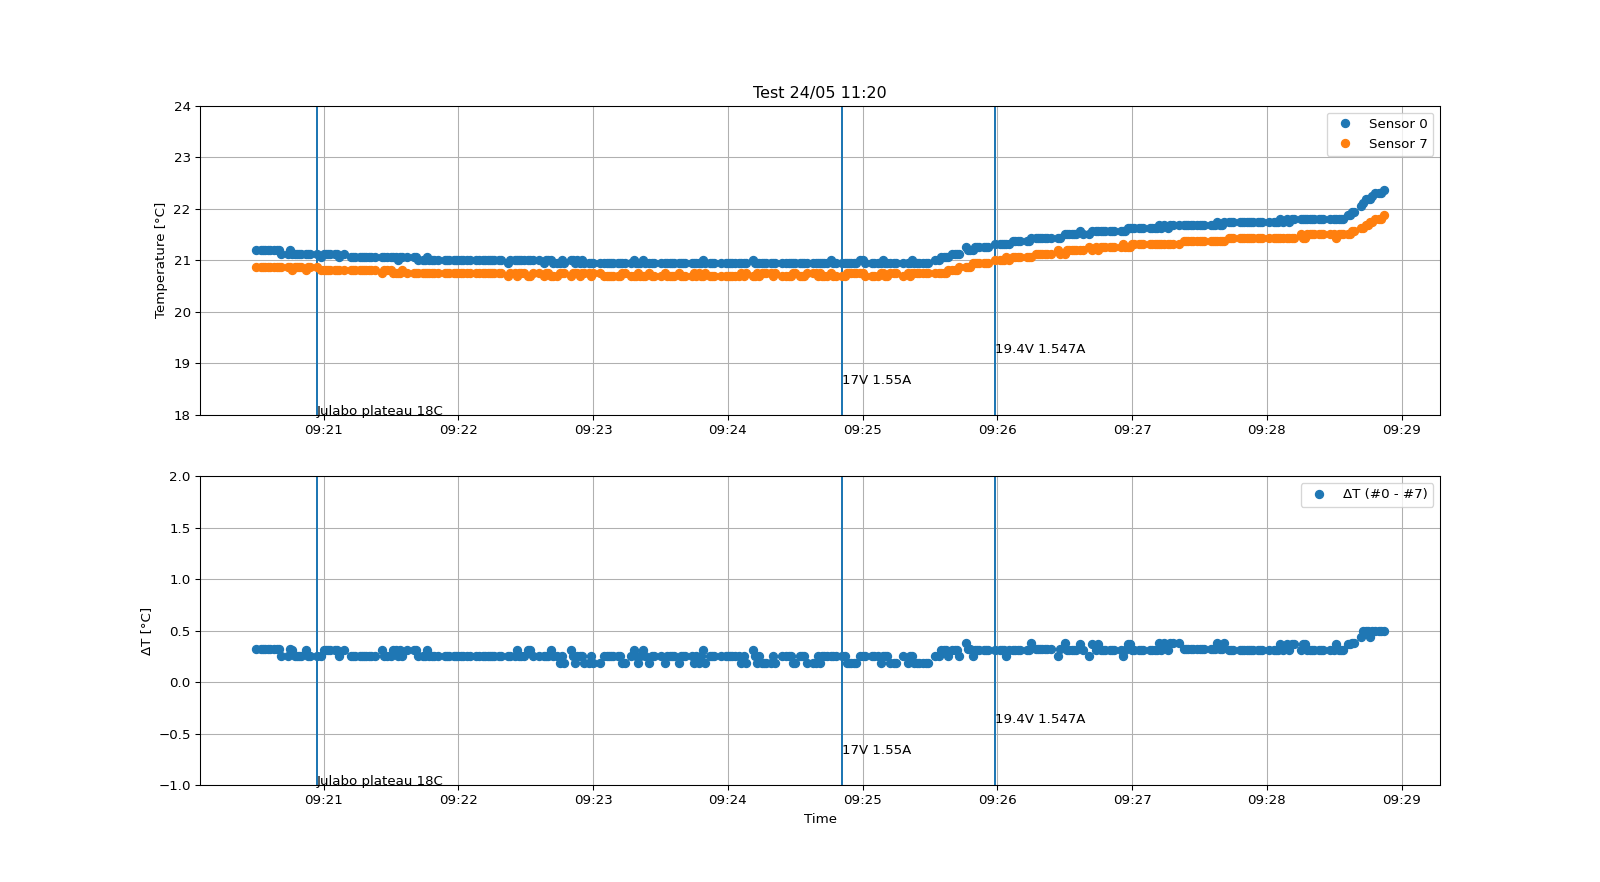
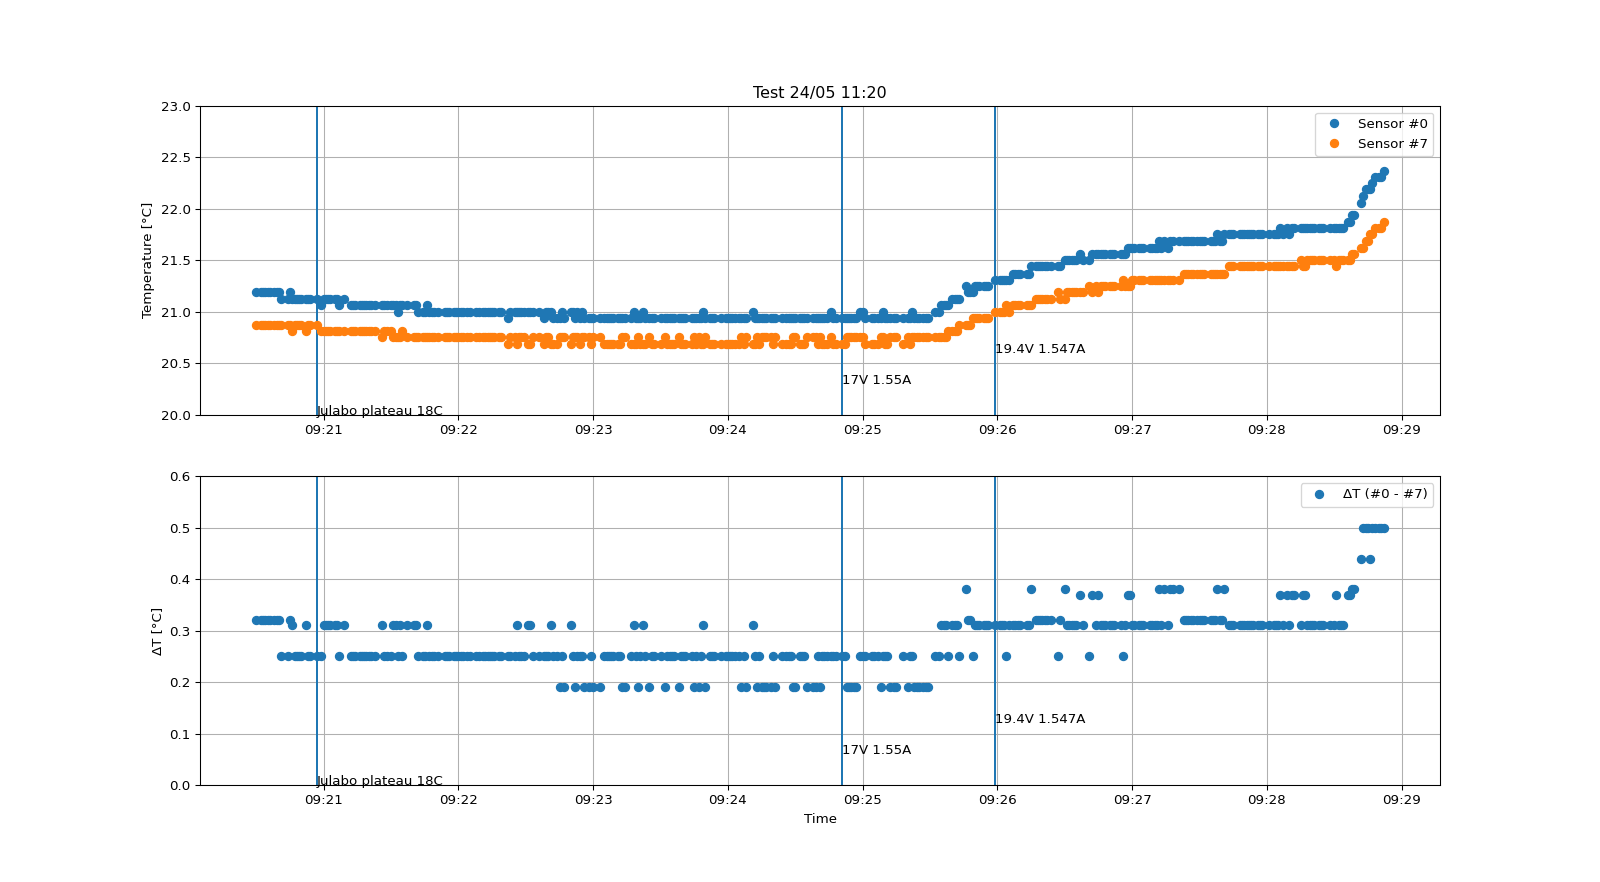
minor improvements in plots

diff --git a/Analysis/silvio_plots.py b/Analysis/silvio_plots.py
@@ -1,104 +1,126 @@
 from numpy import genfromtxt
 import matplotlib.pyplot as plt
 import os, datetime
+from math import floor, ceil
 import matplotlib.dates as mdates
 xformatter = mdates.DateFormatter('%H:%M')
 
-sensor_pairs = [(0,7)] #, (4,7), (2,5)
-#sensors_up = 1,2
-#sensors_down = 3,4
-sensors = [i[0] for i in sensor_pairs] + [i[1] for i in sensor_pairs]
+os.system("mkdir -p plots")
 
-inputFile = '../Data/tklog_1621851072.txt'
-inputFileNew = inputFile.replace(".txt","_data.txt")
-inputFileLog = inputFile.replace(".txt","_log.txt")
-os.system("cat %s | grep -v Log > %s" %(inputFile,inputFileNew))
-os.system("cat %s | grep Log > %s" %(inputFile,inputFileLog))
-my_data = genfromtxt(inputFileNew, delimiter=' ')
-mystates = {"Off":0, "Initialized":1, "Ready":2,"HeatingOn":3, "HeatingOff":4 ,"DumpResults":5}
-my_curated_data = my_data[:,[0,4,8,9,10,11,12,13,14,15]]
-
-delta_T_Above_minus_below = {}
-for sensor_pair in sensor_pairs:
-    delta_T_Above_minus_below[sensor_pair] = ( my_curated_data[:,sensor_pair[0]+2] - my_curated_data[:,sensor_pair[1]+2] )
-
-### File timestamp
-timestamp_moments= {    
-#    1621851072: "AAA",
+sensor_config = {
+    '../Data/tklog_1621846908.txt': ([(0,7)],""),
+    '../Data/tklog_1621847007.txt': ([(0,7)],""),
+    '../Data/tklog_1621848040.txt': ([(0,7)],""),
+    '../Data/tklog_1621848543.txt': ([(0,7)],""),
+    '../Data/tklog_1621848738.txt': ([(0,7)],""),
+    '../Data/tklog_1621849015.txt': ([(0,7)],""),
+    '../Data/tklog_1621849264.txt': ([(0,7)],""),
+    '../Data/tklog_1621850280.txt': ([(0,7)],""),
+    '../Data/tklog_1621850596.txt': ([(0,7)],""),
+    '../Data/tklog_1621851072.txt': ([(0,7)],""),
 }
 
-logFile = open(inputFileLog)
-for l in logFile.readlines():
-    timestamp_moments[datetime.datetime.utcfromtimestamp(int(l.split(" Log ")[0]))] = l.split(" Log ")[1].replace("\n","")
+for inputFile in sensor_config:
+    sensor_pairs = sensor_config[inputFile][0]
+    title = sensor_config[inputFile][1]
+    #sensors_up = 1,2
+    #sensors_down = 3,4
+    sensors = [i[0] for i in sensor_pairs] + [i[1] for i in sensor_pairs]
+    
+    inputFileNew = inputFile.replace("tklog_","data_")
+    inputFileLog = inputFile.replace("tklog_","log_")
+    os.system("cat %s | grep -v Log > %s" %(inputFile,inputFileNew))
+    os.system("cat %s | grep Log > %s" %(inputFile,inputFileLog))
+    my_data = genfromtxt(inputFileNew, delimiter=' ')
+    mystates = {"Off":0, "Initialized":1, "Ready":2,"HeatingOn":3, "HeatingOff":4 ,"DumpResults":5}
+    my_curated_data = my_data[:,[0,4,8,9,10,11,12,13,14,15]]
 
-print(timestamp_moments)
+    delta_T_Above_minus_below = {}
+    for sensor_pair in sensor_pairs:
+        delta_T_Above_minus_below[sensor_pair] = ( my_curated_data[:,sensor_pair[0]+2] - my_curated_data[:,sensor_pair[1]+2] )
 
-####
+    ### File timestamp
+    timestamp_moments= {    
+    #    1621851072: "AAA",
+    }
 
-#sensors
-# 0,1,2,3,4,5,6,7
-# 2,3,4,5,6,7,8,9
+    logFile = open(inputFileLog)
+    for l in logFile.readlines():
+        timestamp_moments[datetime.datetime.utcfromtimestamp(int(l.split(" Log ")[0]))] = l.split(" Log ")[1].replace("\n","")
 
-my_dpi=96
-#typically ABOVE are sensors 0,2; below sensors 3,5
-fig, ax = plt.subplots(2, figsize=(1600/my_dpi, 882/my_dpi), dpi=my_dpi)
+    print(timestamp_moments)
 
-#sensors
-time = [datetime.datetime.utcfromtimestamp(float(t)) for t in my_curated_data[:,0]]
-#time = my_curated_data[:,0]
-for sensor in sensors:
-    ax[0].plot_date(time,my_curated_data[:,sensor+2], label = 'Sensor %d'%sensor)
-#ax[0].set_ylim([-10,100])
-min_ = min([min(my_curated_data[:,i+2]) for i in sensors])
-max_ = max([max(my_curated_data[:,i+2]) for i in sensors])
-binSize = 2
-min_ = binSize*round(min_/binSize-1)
-max_ = binSize*round(max_/binSize+1)
-ax[0].set_ylim([min_, max_])
+    ####
 
-trans = ax[0].get_xaxis_transform()
-delta = min_
+    #sensors
+    # 0,1,2,3,4,5,6,7
+    # 2,3,4,5,6,7,8,9
 
-for i in timestamp_moments:
-    ax[0].vlines(i,-10,100)
-    ax[0].text(i,delta,timestamp_moments[i])
-    delta = delta+(max_-min_)/10
-    if (delta>max_):
-        delta=min_
+    my_dpi=96
+    #typically ABOVE are sensors 0,2; below sensors 3,5
+    fig, ax = plt.subplots(2, figsize=(1600/my_dpi, 882/my_dpi), dpi=my_dpi)
 
-ax[0].legend()
-ax[0].grid(True)
+    #sensors
+    time = [datetime.datetime.utcfromtimestamp(float(t)) for t in my_curated_data[:,0]]
+    #time = my_curated_data[:,0]
+    for sensor in sensors:
+        ax[0].plot_date(time,my_curated_data[:,sensor+2], label = 'Sensor #%d'%sensor)
+    #ax[0].set_ylim([-10,100])
+    min_ = min([min(my_curated_data[:,i+2]) for i in sensors])
+    max_ = max([max(my_curated_data[:,i+2]) for i in sensors])
+    binSize = 1
+    min_ = binSize*floor(min_ /binSize )
+    max_ = binSize*ceil(max_/binSize)
+    ax[0].set_ylim([min_, max_])
 
-for sensor_pair in sensor_pairs:
-    ax[1].plot_date(time,delta_T_Above_minus_below[sensor_pair], label = 'ΔT (#%d - #%d)'%(sensor_pair[0],sensor_pair[1]))
-ax[1].legend()
-ax[1].grid(True)
-#ax[1].set_ylim([-10,10])
-min_ = min([min(delta_T_Above_minus_below[sensor_pair]) for sensor_pair in sensor_pairs])
-max_ = max([max(delta_T_Above_minus_below[sensor_pair]) for sensor_pair in sensor_pairs])
-binSize = 1
-min_ = binSize*round(min_ /binSize -1)
-max_ = binSize*round(max_ /binSize +1)
-ax[1].set_ylim([min_ ,max_ ])
+    trans = ax[0].get_xaxis_transform()
+    delta = min_
 
-trans = ax[1].get_xaxis_transform()
-delta = min_
+    for i in timestamp_moments:
+        ax[0].vlines(i,-10,100)
+        ax[0].text(i,delta,timestamp_moments[i])
+        delta = delta+(max_-min_)/10
+        if (delta>max_):
+            delta=min_
 
-for i in timestamp_moments:
-    ax[1].vlines(i,-1000,1000)
-    ax[1].text(i,delta,timestamp_moments[i])
-    delta = delta+(max_-min_)/10
-    if (delta>max_):
-        delta=min_
+    ax[0].legend()
+    ax[0].grid(True)
 
-ax[0].set_title("Test %s"%datetime.datetime.fromtimestamp(my_data[0][0]).strftime('%d/%m %H:%M')) 
-ax[1].set_xlabel("Time") 
-ax[0].set_ylabel("Temperature [°C]") 
-ax[1].set_ylabel("ΔT [°C]") 
+    for sensor_pair in sensor_pairs:
+        ax[1].plot_date(time,delta_T_Above_minus_below[sensor_pair], label = 'ΔT (#%d - #%d)'%(sensor_pair[0],sensor_pair[1]))
+    ax[1].legend()
+    ax[1].grid(True)
+    #ax[1].set_ylim([-10,10])
+    min_ = min([min(delta_T_Above_minus_below[sensor_pair]) for sensor_pair in sensor_pairs])
+    max_ = max([max(delta_T_Above_minus_below[sensor_pair]) for sensor_pair in sensor_pairs])
+    binSize = 0.2
+    min_ = binSize*floor(min_ /binSize )
+    max_ = binSize*ceil(max_/binSize)
+    ax[1].set_ylim([min_ ,max_ ])
 
-plt.gcf().axes[0].xaxis.set_major_formatter(xformatter)
-plt.gcf().axes[1].xaxis.set_major_formatter(xformatter)
+    trans = ax[1].get_xaxis_transform()
+    delta = min_
 
-plt.savefig("%s.png"%datetime.datetime.fromtimestamp(my_data[0][0]).strftime('%y_%m_%d_%H_%M_%S'))
-plt.show()
+    for i in timestamp_moments:
+        ax[1].vlines(i,-1000,1000)
+        ax[1].text(i,delta,timestamp_moments[i])
+        delta = delta+(max_-min_)/10
+        if (delta>max_):
+            delta=min_
+
+    if title != "":
+        ax[0].set_title(title + " [%s]"%datetime.datetime.fromtimestamp(my_data[0][0]).strftime('%d/%m %H:%M')) 
+    else:
+        ax[0].set_title("Test %s"%datetime.datetime.fromtimestamp(my_data[0][0]).strftime('%d/%m %H:%M')) 
+    ax[1].set_xlabel("Time") 
+    ax[0].set_ylabel("Temperature [°C]") 
+    ax[1].set_ylabel("ΔT [°C]") 
+
+    plt.gcf().axes[0].xaxis.set_major_formatter(xformatter)
+    plt.gcf().axes[1].xaxis.set_major_formatter(xformatter)
+
+    outFile = "plots/%s.png"%datetime.datetime.fromtimestamp(my_data[0][0]).strftime('%y_%m_%d_%H_%M_%S')
+    print("%s saved."%outFile)
+    plt.savefig(outFile)
+#    plt.show()
 
